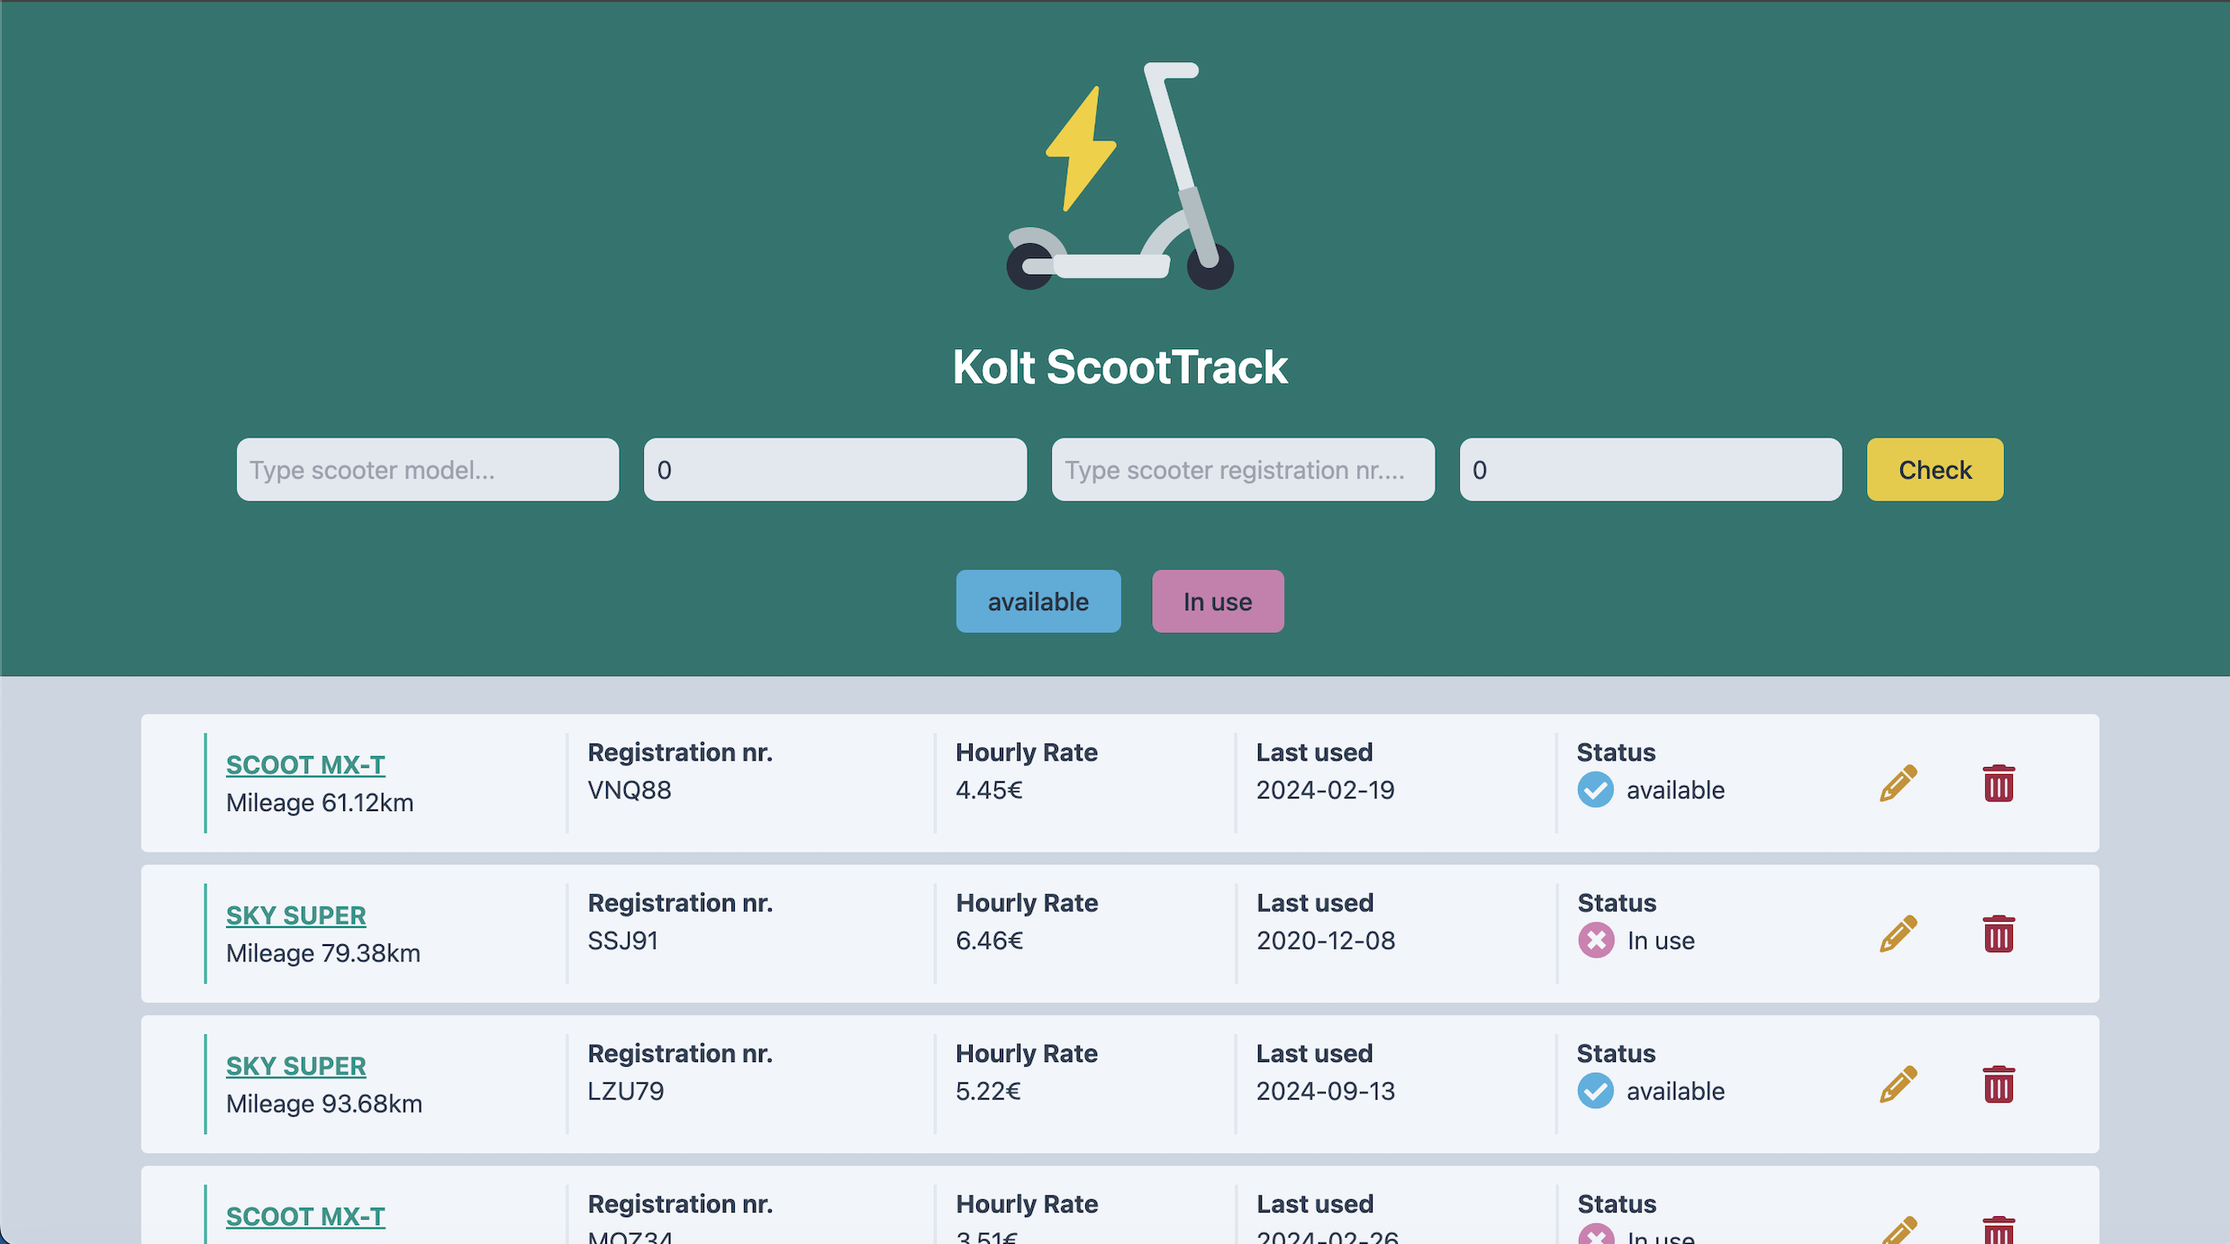
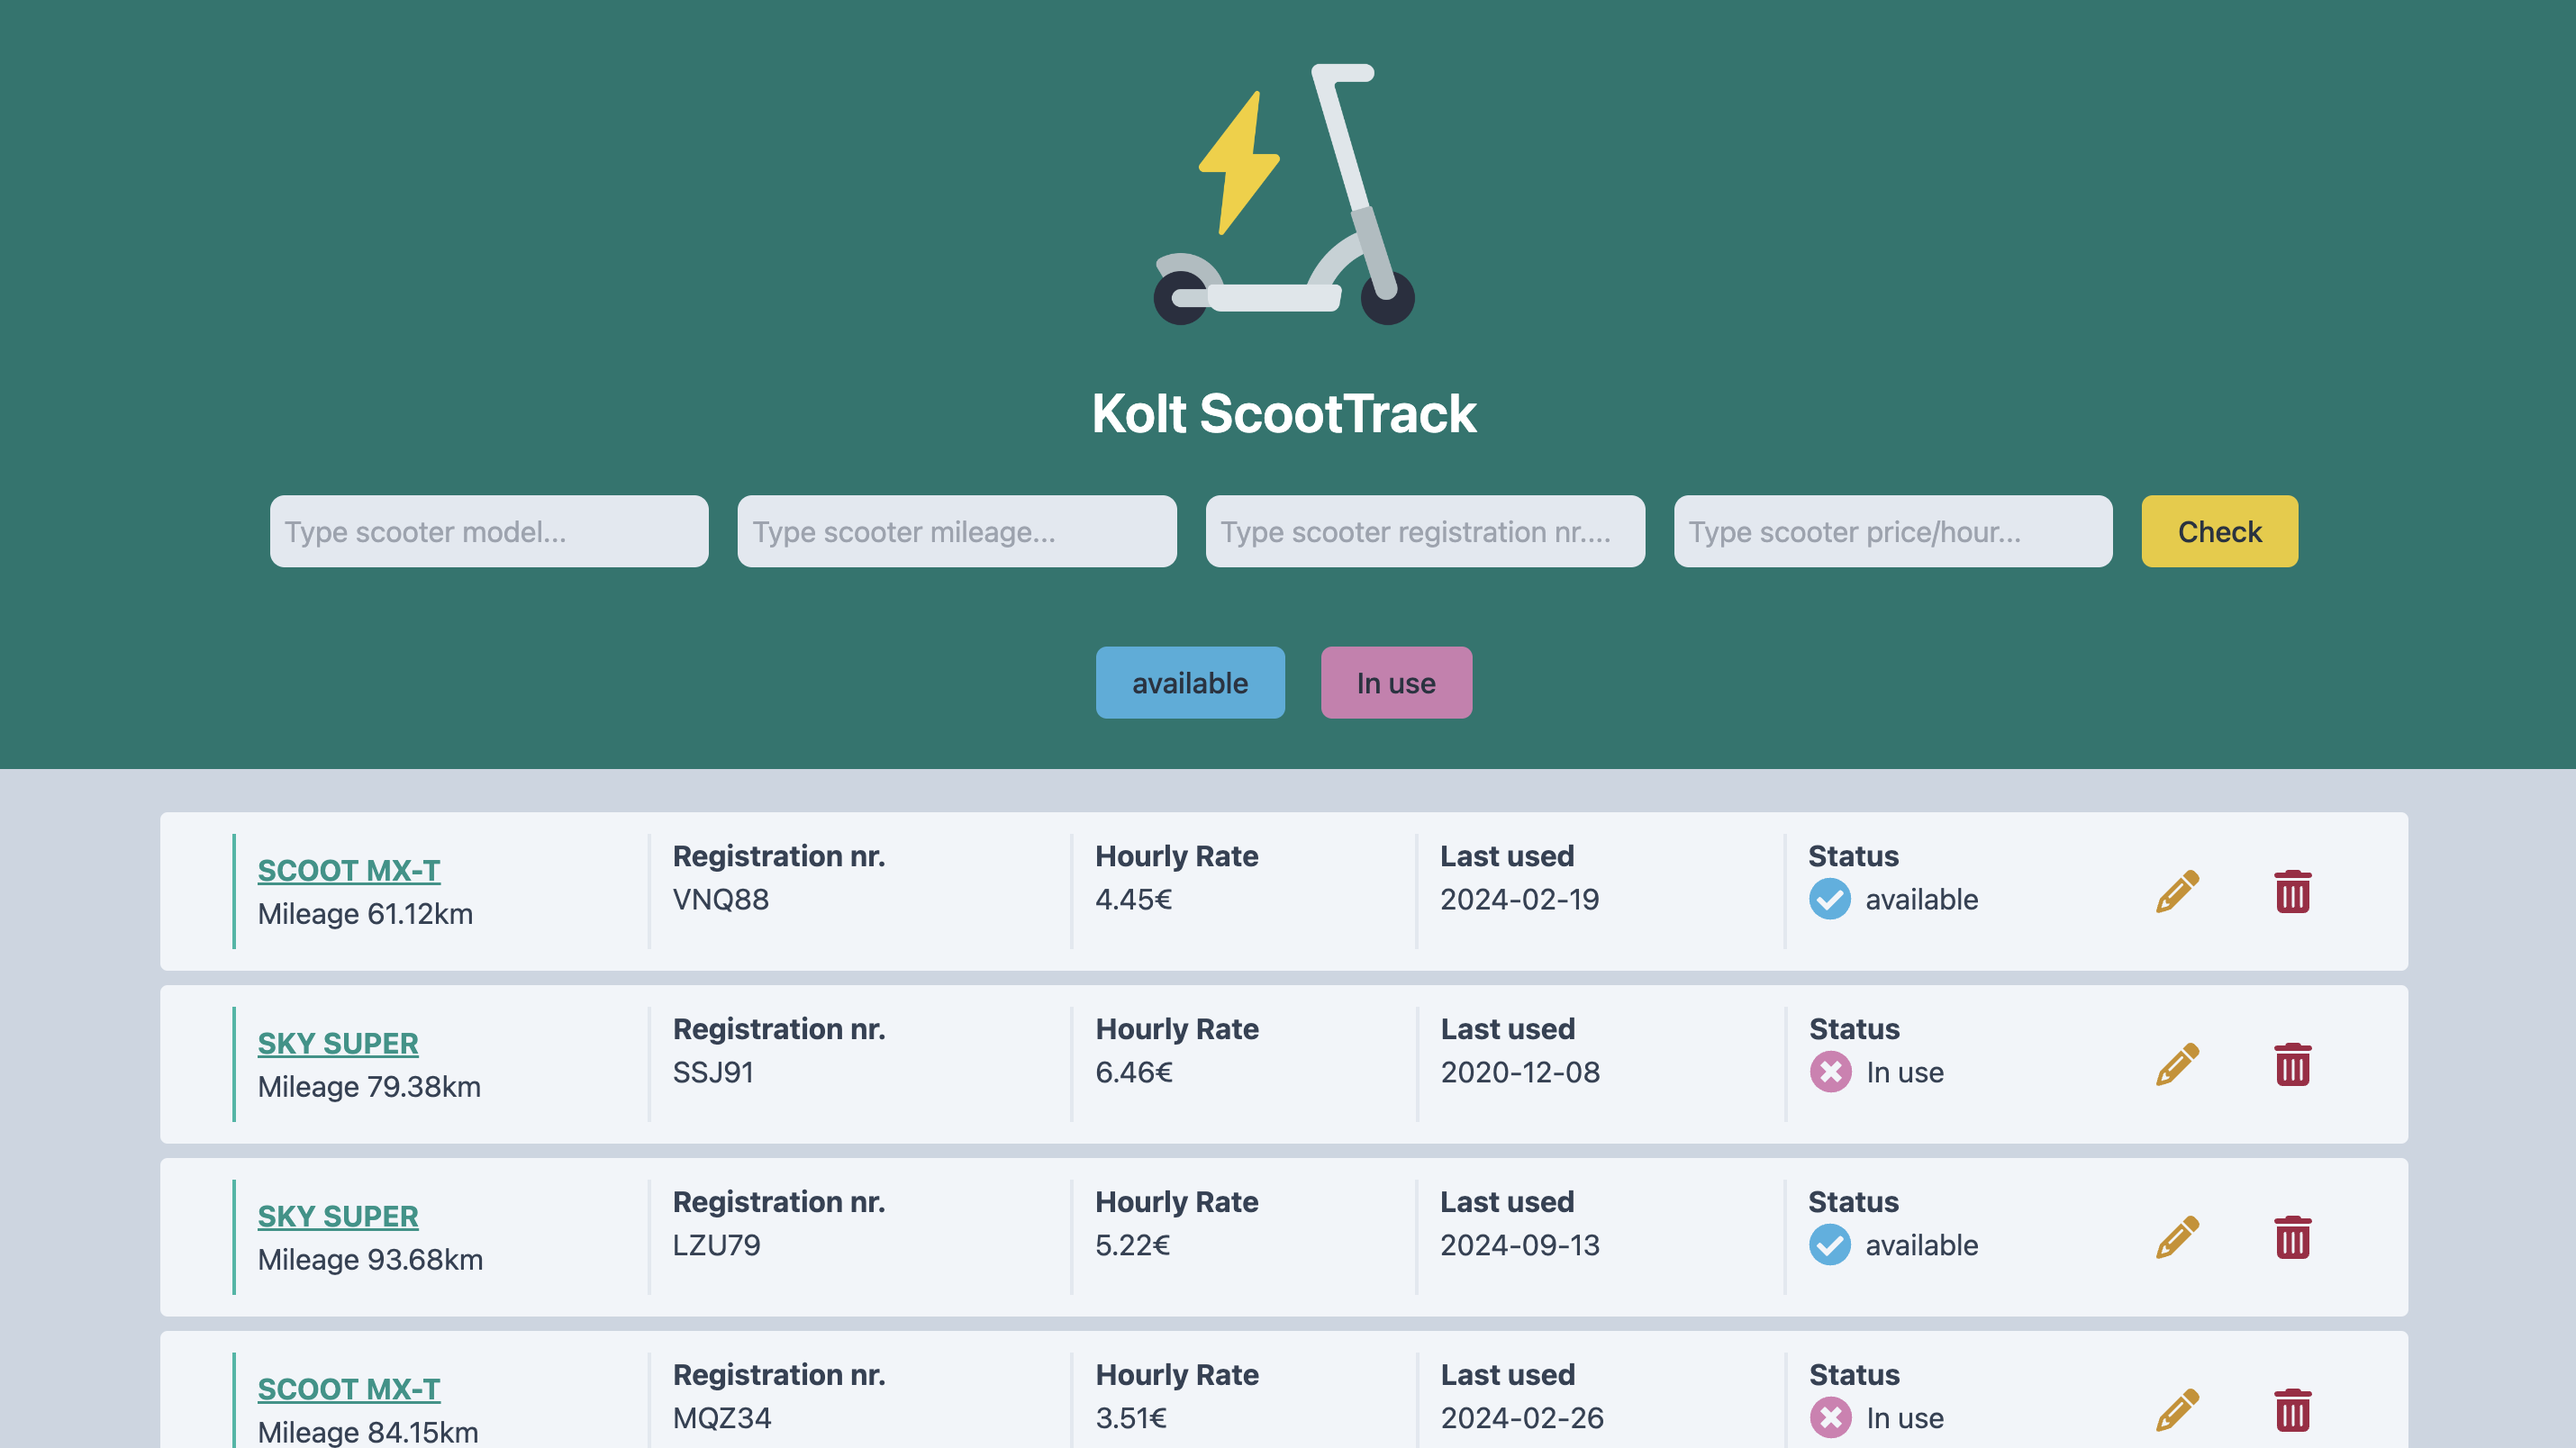
readme

diff --git a/src/components/AddScooter.jsx b/src/components/AddScooter.jsx
@@ -55,7 +55,7 @@ export default function AddScooterForm () {
         />
         <input 
           type="number"
-          value={scooter.ride.toString()}
+          value={scooter.ride === 0 ? "" : scooter.ride.toString()}
           onChange={handleRideChange}
           className="rounded-lg p-2  outline-amber-400 outline-2 text-slate-700 bg-slate-200 min-w-[100px] w-full sm:w-1/4 mb-2 sm:mb-0"
           placeholder='Type scooter mileage...'
@@ -69,7 +69,7 @@ export default function AddScooterForm () {
           />
           <input
           type="number"
-          value={scooter.hourlyPrice}
+          value={scooter.hourlyPrice === 0 ? "" : scooter.hourlyPrice.toString()}
           onChange={handlePricingChange}
           className="rounded-lg p-2 py-2 outline-amber-400 outline-2 text-slate-700 bg-slate-200 min-w-[100px] w-full sm:w-1/4 mb-2 sm:mb-0"
           placeholder="Type scooter price/hour..."

diff --git a/README.md b/README.md
@@ -9,7 +9,7 @@
 
 ## Welcome!
 
-This is a CRUD sample of scooters app - created using React Vite, Tailwind, Css, localStorage.
+This is a CRUD sample of scooters responsive app - created using React Vite, Tailwind, Css, localStorage.
 
 🔹 Preview -  <a href="https://simonakom.github.io/kolt-scooters-app/dist/index.html" style="font-size:small;">View</a><h4>
  
